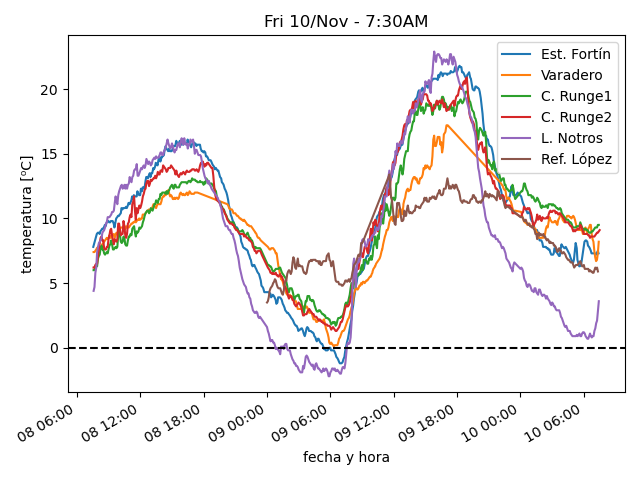
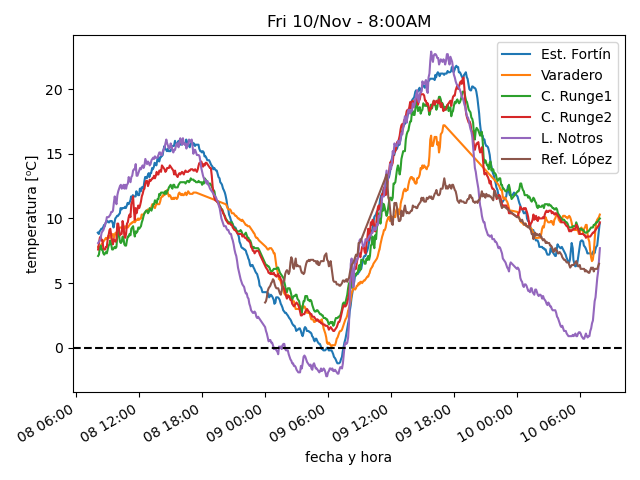
actualiza datos

diff --git a/estaciones/estacion4.html b/estaciones/estacion4.html
@@ -18,12 +18,12 @@
     </tr>
     <tr>
      <td class="stats_data">
-      7:29AM
+      7:54AM
      </td>
     </tr>
     <tr>
      <td class="stats_data">
-      9.1⁰C
+      9.7⁰C
      </td>
     </tr>
     <tr>
@@ -33,17 +33,17 @@
     </tr>
     <tr>
      <td class="stats_data">
-      64.9%
+      62.5%
      </td>
     </tr>
     <tr>
      <td class="stats_data">
-      1005.93hPa
+      1006.03hPa
      </td>
     </tr>
     <tr>
      <td class="stats_data">
-      1.4/2.6 km/hr WSW
+      2.3/3.9 km/hr SSW
      </td>
     </tr>
     <tr>
@@ -53,12 +53,12 @@
     </tr>
     <tr>
      <td class="stats_data">
-      0.0
+      1.0
      </td>
     </tr>
     <tr>
      <td class="stats_data">
-      30.0 W/m²
+      106.3 W/m²
      </td>
     </tr>
    </tbody>

diff --git a/estaciones/estacion2.html b/estaciones/estacion2.html
@@ -18,22 +18,22 @@
     </tr>
     <tr>
      <td class="stats_data">
-      7:24AM
+      7:54AM
      </td>
     </tr>
     <tr>
      <td class="stats_data">
-      8.2⁰C
+      10.3⁰C
      </td>
     </tr>
     <tr>
      <td class="stats_data">
-      4.2⁰C
+      5.3⁰C
      </td>
     </tr>
     <tr>
      <td class="stats_data">
-      76.0%
+      71.2%
      </td>
     </tr>
     <tr>
@@ -43,7 +43,7 @@
     </tr>
     <tr>
      <td class="stats_data">
-      3.3/4.9 km/hr W
+      5.8/8.2 km/hr WNW
      </td>
     </tr>
     <tr>
@@ -53,12 +53,12 @@
     </tr>
     <tr>
      <td class="stats_data">
-      0.0
+      1.0
      </td>
     </tr>
     <tr>
      <td class="stats_data">
-      36.3 W/m²
+      154.8 W/m²
      </td>
     </tr>
    </tbody>

diff --git a/estaciones/estacion3.html b/estaciones/estacion3.html
@@ -18,22 +18,22 @@
     </tr>
     <tr>
      <td class="stats_data">
-      7:24AM
+      7:54AM
      </td>
     </tr>
     <tr>
      <td class="stats_data">
-      9.5⁰C
+      10.0⁰C
      </td>
     </tr>
     <tr>
      <td class="stats_data">
-      3.7⁰C
+      3.9⁰C
      </td>
     </tr>
     <tr>
      <td class="stats_data">
-      67.3%
+      65.8%
      </td>
     </tr>
     <tr>
@@ -43,7 +43,7 @@
     </tr>
     <tr>
      <td class="stats_data">
-      7.2/10.2 km/hr W
+      7.4/10.8 km/hr W
      </td>
     </tr>
     <tr>
@@ -53,12 +53,12 @@
     </tr>
     <tr>
      <td class="stats_data">
-      0.0
+      1.0
      </td>
     </tr>
     <tr>
      <td class="stats_data">
-      43.3 W/m²
+      135.3 W/m²
      </td>
     </tr>
    </tbody>

diff --git a/estaciones/estacion6.html b/estaciones/estacion6.html
@@ -18,32 +18,32 @@
     </tr>
     <tr>
      <td class="stats_data">
-      7:20AM
+      7:50AM
      </td>
     </tr>
     <tr>
      <td class="stats_data">
-      5.9⁰C
+      6.5⁰C
      </td>
     </tr>
     <tr>
      <td class="stats_data">
-      -10.3⁰C
+      -8.6⁰C
      </td>
     </tr>
     <tr>
      <td class="stats_data">
-      30.0%
+      33.0%
      </td>
     </tr>
     <tr>
      <td class="stats_data">
-      1002.47hPa
+      1002.34hPa
      </td>
     </tr>
     <tr>
      <td class="stats_data">
-      14.5/20.9 km/hr S
+      9.7/16.1 km/hr SE
      </td>
     </tr>
     <tr>
@@ -58,7 +58,7 @@
     </tr>
     <tr>
      <td class="stats_data">
-      917.0 W/m²
+      911.0 W/m²
      </td>
     </tr>
    </tbody>

diff --git a/estaciones/estacion1.html b/estaciones/estacion1.html
@@ -18,32 +18,32 @@
     </tr>
     <tr>
      <td class="stats_data">
-      7:23AM
+      7:53AM
      </td>
     </tr>
     <tr>
      <td class="stats_data">
-      7.3⁰C
+      9.6⁰C
      </td>
     </tr>
     <tr>
      <td class="stats_data">
-      3.4⁰C
+      4.9⁰C
      </td>
     </tr>
     <tr>
      <td class="stats_data">
-      76.5%
+      72.5%
      </td>
     </tr>
     <tr>
      <td class="stats_data">
-      1003.73hPa
+      1003.39hPa
      </td>
     </tr>
     <tr>
      <td class="stats_data">
-      3.1/6.4 km/hr ENE
+      0.7/2.4 km/hr ENE
      </td>
     </tr>
     <tr>
@@ -58,7 +58,7 @@
     </tr>
     <tr>
      <td class="stats_data">
-      128.0 W/m²
+      241.0 W/m²
      </td>
     </tr>
    </tbody>

diff --git a/estaciones/estacion5.html b/estaciones/estacion5.html
@@ -18,32 +18,32 @@
     </tr>
     <tr>
      <td class="stats_data">
-      7:25AM
+      7:55AM
      </td>
     </tr>
     <tr>
      <td class="stats_data">
-      3.6⁰C
+      7.7⁰C
      </td>
     </tr>
     <tr>
      <td class="stats_data">
-      1.2⁰C
+      3.4⁰C
      </td>
     </tr>
     <tr>
      <td class="stats_data">
-      84.0%
+      74.0%
      </td>
     </tr>
     <tr>
      <td class="stats_data">
-      1008.6hPa
+      1007.25hPa
      </td>
     </tr>
     <tr>
      <td class="stats_data">
-      0.0/0.0 km/hr N
+      0.0/2.6 km/hr N
      </td>
     </tr>
     <tr>
